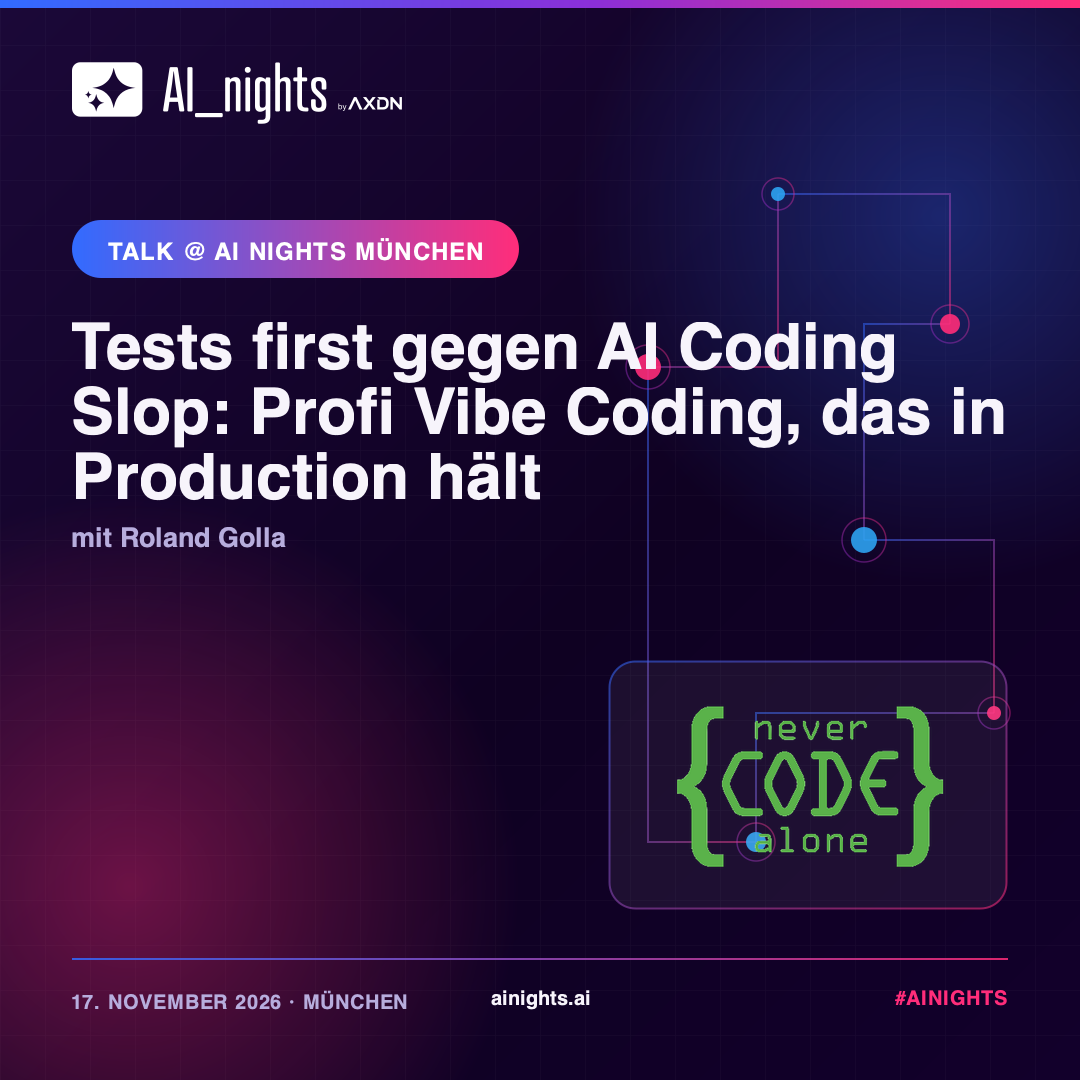
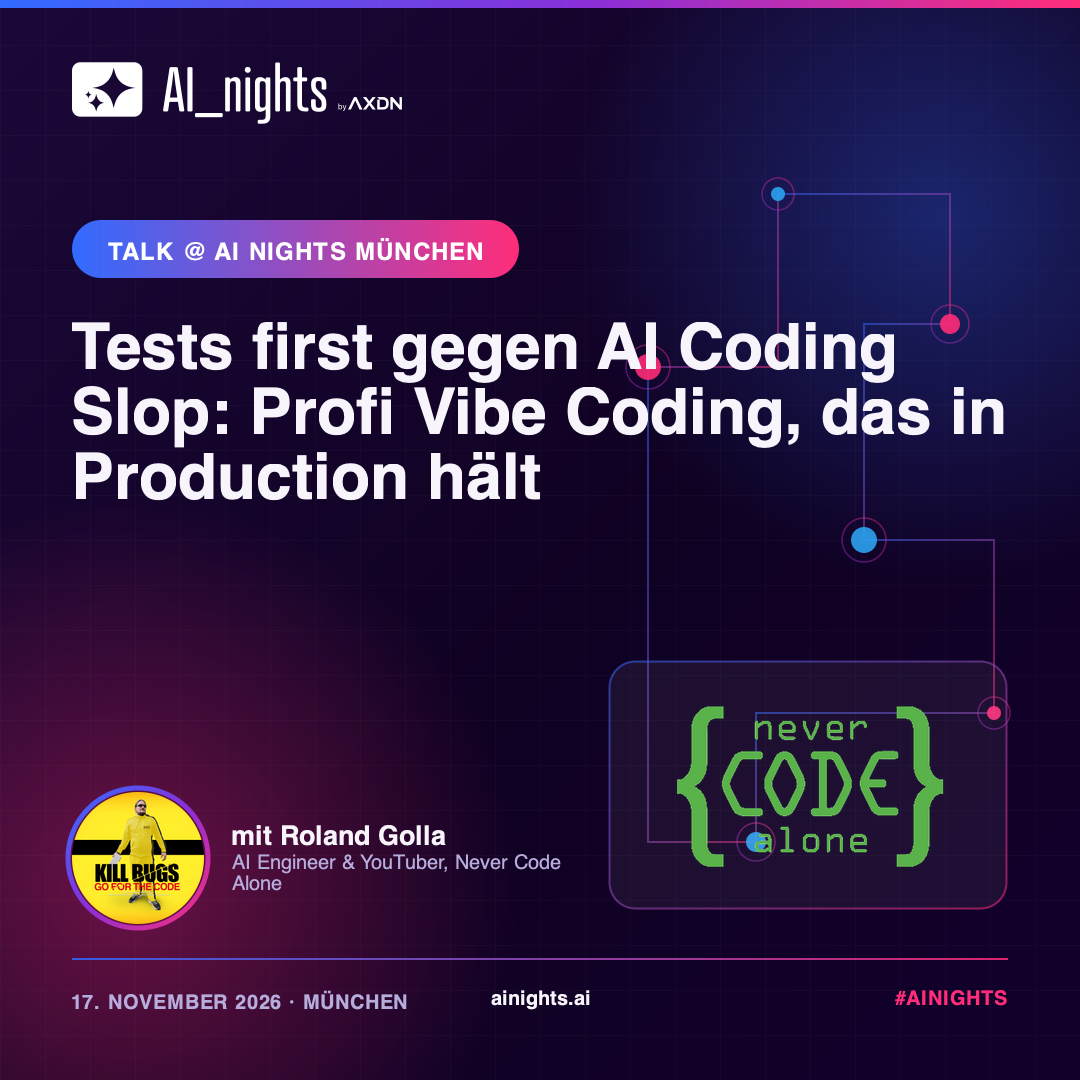
Roland-Golla-Ankündigung (München Slot 2) + Speaker-Foto auf Hook-Slides
- Speaker-Announcement-Blogpost für Rolands Talk 'Tests first gegen
  AI Coding Slop' (Kategorie speaker-announcements, sofort datiert,
  da der Talk kurzfristig bestätigt wurde)
- Themen-Karussell Slide 1: rundes Speaker-Foto mit Verlaufsring plus
  'mit <Name>'-Byline und Rolle unten links; Byline-Breite weicht dem
  Key-Visual aus — alle Karussells neu gerendert

Changed region(s): [[0.0611, 0.7028, 0.5194, 0.8861], [0.0611, 0.4889, 0.275, 0.5194]]

diff --git a/src/content/blog/tests-first-ai-coding-slop-roland-golla-ai-nights-muenchen-01.md b/src/content/blog/tests-first-ai-coding-slop-roland-golla-ai-nights-muenchen-01.md
@@ -1,0 +1,46 @@
+---
+title: 'Tests first gegen AI Coding Slop – Roland Golla bei den AI Nights München #01'
+description: 'Speaker-Ankündigung für die AI Nights München #01: Roland Golla (Never Code Alone) zeigt Profi Vibe Coding mit Test-first-Workflow – KI-Code, der in Production hält.'
+pubDate: 2026-09-05
+author: 'AI Nights Team'
+category: speaker-announcements
+image:
+  src: '/wp-content/uploads/2026/01/kill-bill-roland-golla.jpg'
+  alt: 'Roland Golla, AI Engineer & YouTuber bei Never Code Alone'
+tags:
+  - speaker-ankuendigung
+  - muenchen
+  - ai-coding
+  - softwarequalitaet
+---
+
+Weiter geht's mit dem Line-up für die AI Nights München | INSPIRE ✨ #01 - Premiere! Der zweite Slot ist besetzt: **Roland Golla**, AI Engineer, Open-Source-Enthusiast und YouTuber bei Never Code Alone, bringt einen Talk mit, der vielen Entwickler:innen aus der Seele sprechen dürfte — **„Tests first gegen AI Coding Slop: Profi Vibe Coding, das in Production hält"**.
+
+## Worum geht es in diesem Talk?
+
+KI baut Features in Minuten — ohne klare Qualitätsstandards entstehen dabei aber schnell doppelte Logik, kaputte Edge Cases und Code, den keiner mehr anfassen will. Roland zeigt in dieser Session seinen Test-first-Workflow von der lokalen Idee bis Production: mit Astro und Tailwind, statischer Analyse, API-, Unit- und E2E-Tests sowie einer GitLab-CI/CD-Pipeline, die alles grün hält.
+
+Besonderheit: Die KI läuft bei ihm komplett souverän über OpenCode und die Ollama Cloud — ohne Vendor Lock-in und ohne Abhängigkeit von einzelnen Anbietern. Du nimmst einen Stack mit, den du am nächsten Tag direkt einsetzen kannst.
+
+## Das nimmst du mit
+
+- Einen Test-first-Workflow für produktionsreifes AI Coding — von der Idee bis zum Deployment
+- Wie du KI-generierten Code absicherst: statische Analyse, API-first, Unit- und E2E-Tests
+- Automatisierte Qualitätschecks mit GitLab CI/CD
+- Einen souveränen KI-Stack ohne Vendor Lock-in: OpenCode + Ollama Cloud
+
+## Über Roland Golla
+
+Roland Golla setzt sich für Softwarequalität, bessere Arbeitsbedingungen und die mentale Gesundheit von Developern ein. Er ist Open-Source-Enthusiast und YouTuber bei Never Code Alone, ausgezeichneter Cypress Ambassador, Keynote Speaker und AI Engineer — und hat über 30 Fachartikel im Entwickler Magazin veröffentlicht. Wer ihn kennt, weiß: Es wird ehrlich, praxisnah und ohne Marketing-Blabla.
+
+[Zum Speaker-Profil von Roland Golla →](/speaker/roland-golla/)
+
+## AI Nights München | INSPIRE ✨ #01 - Premiere! MUC auf einen Blick
+
+- 📅 Dienstag, 17. November 2026
+- 🕐 Einlass ab 17:00 Uhr
+- 📍 Design Offices München, München Campus Königsplatz
+
+Wie immer gilt: 100 % KI-Fokus, kurze Sessions, entspannte Pausen mit Drinks & Snacks — und genug Raum für echte Gespräche.
+
+[Alle Infos & Tickets zum Event →](/events/ai-nights-muenchen-01/)
